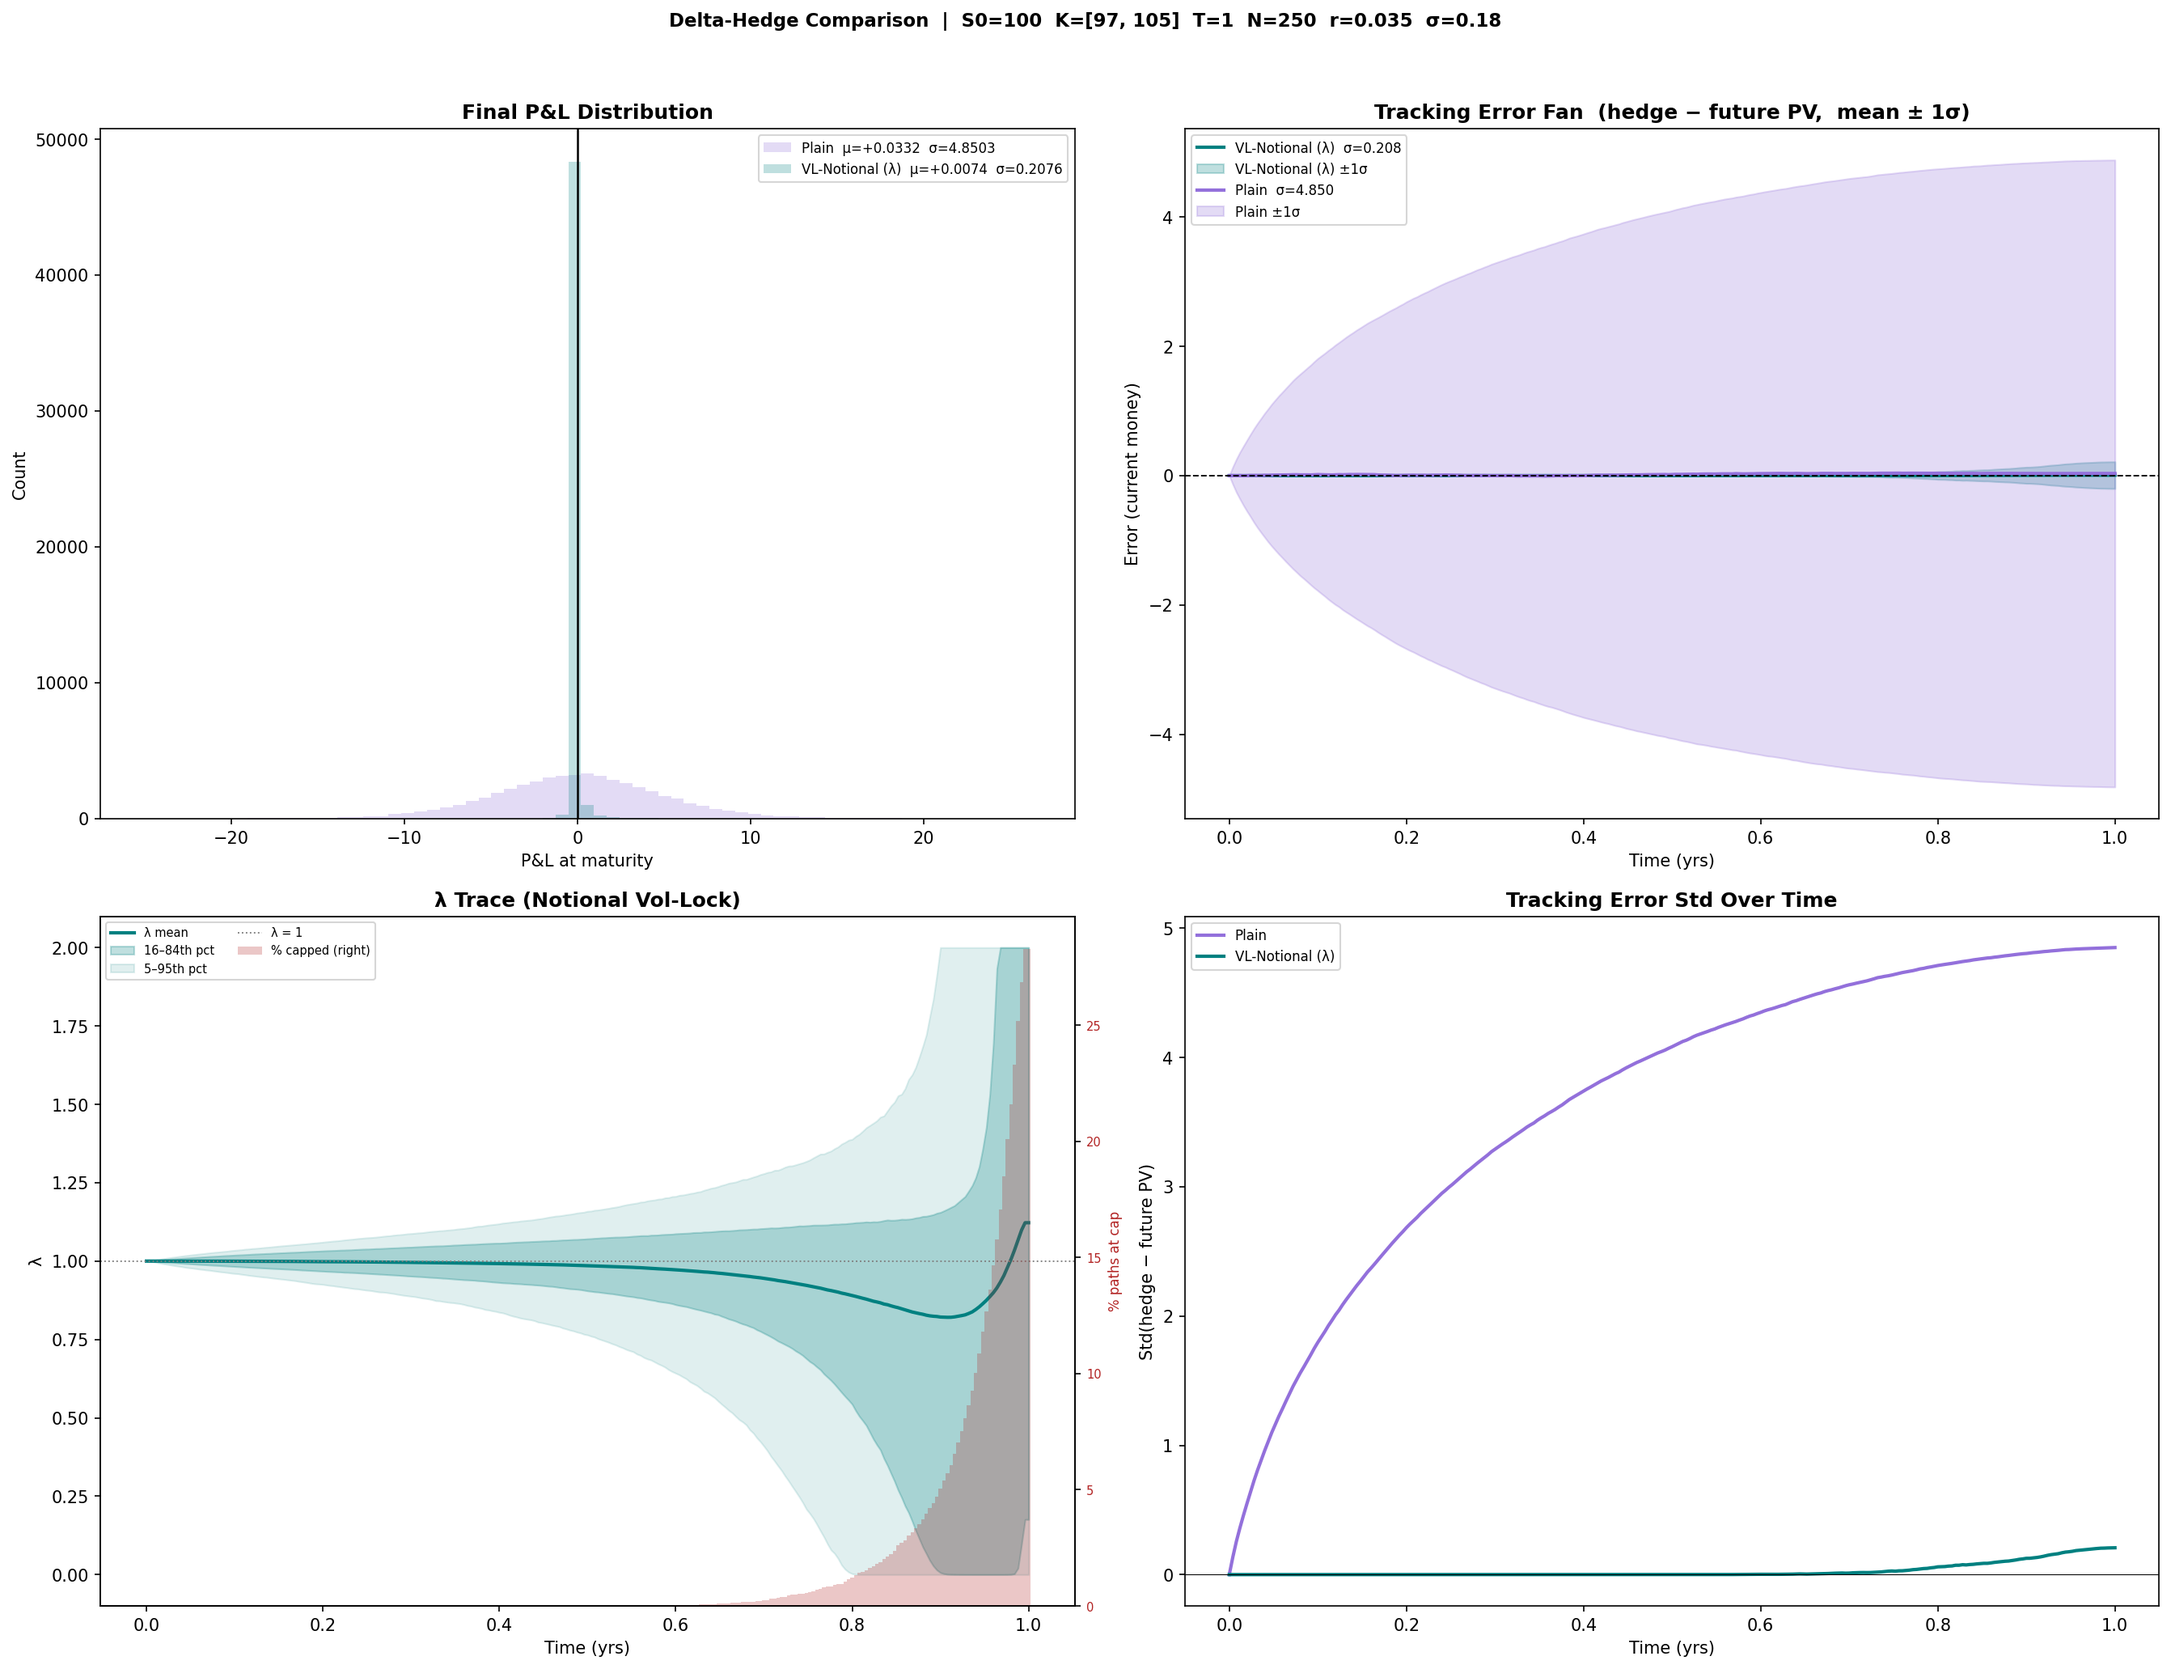
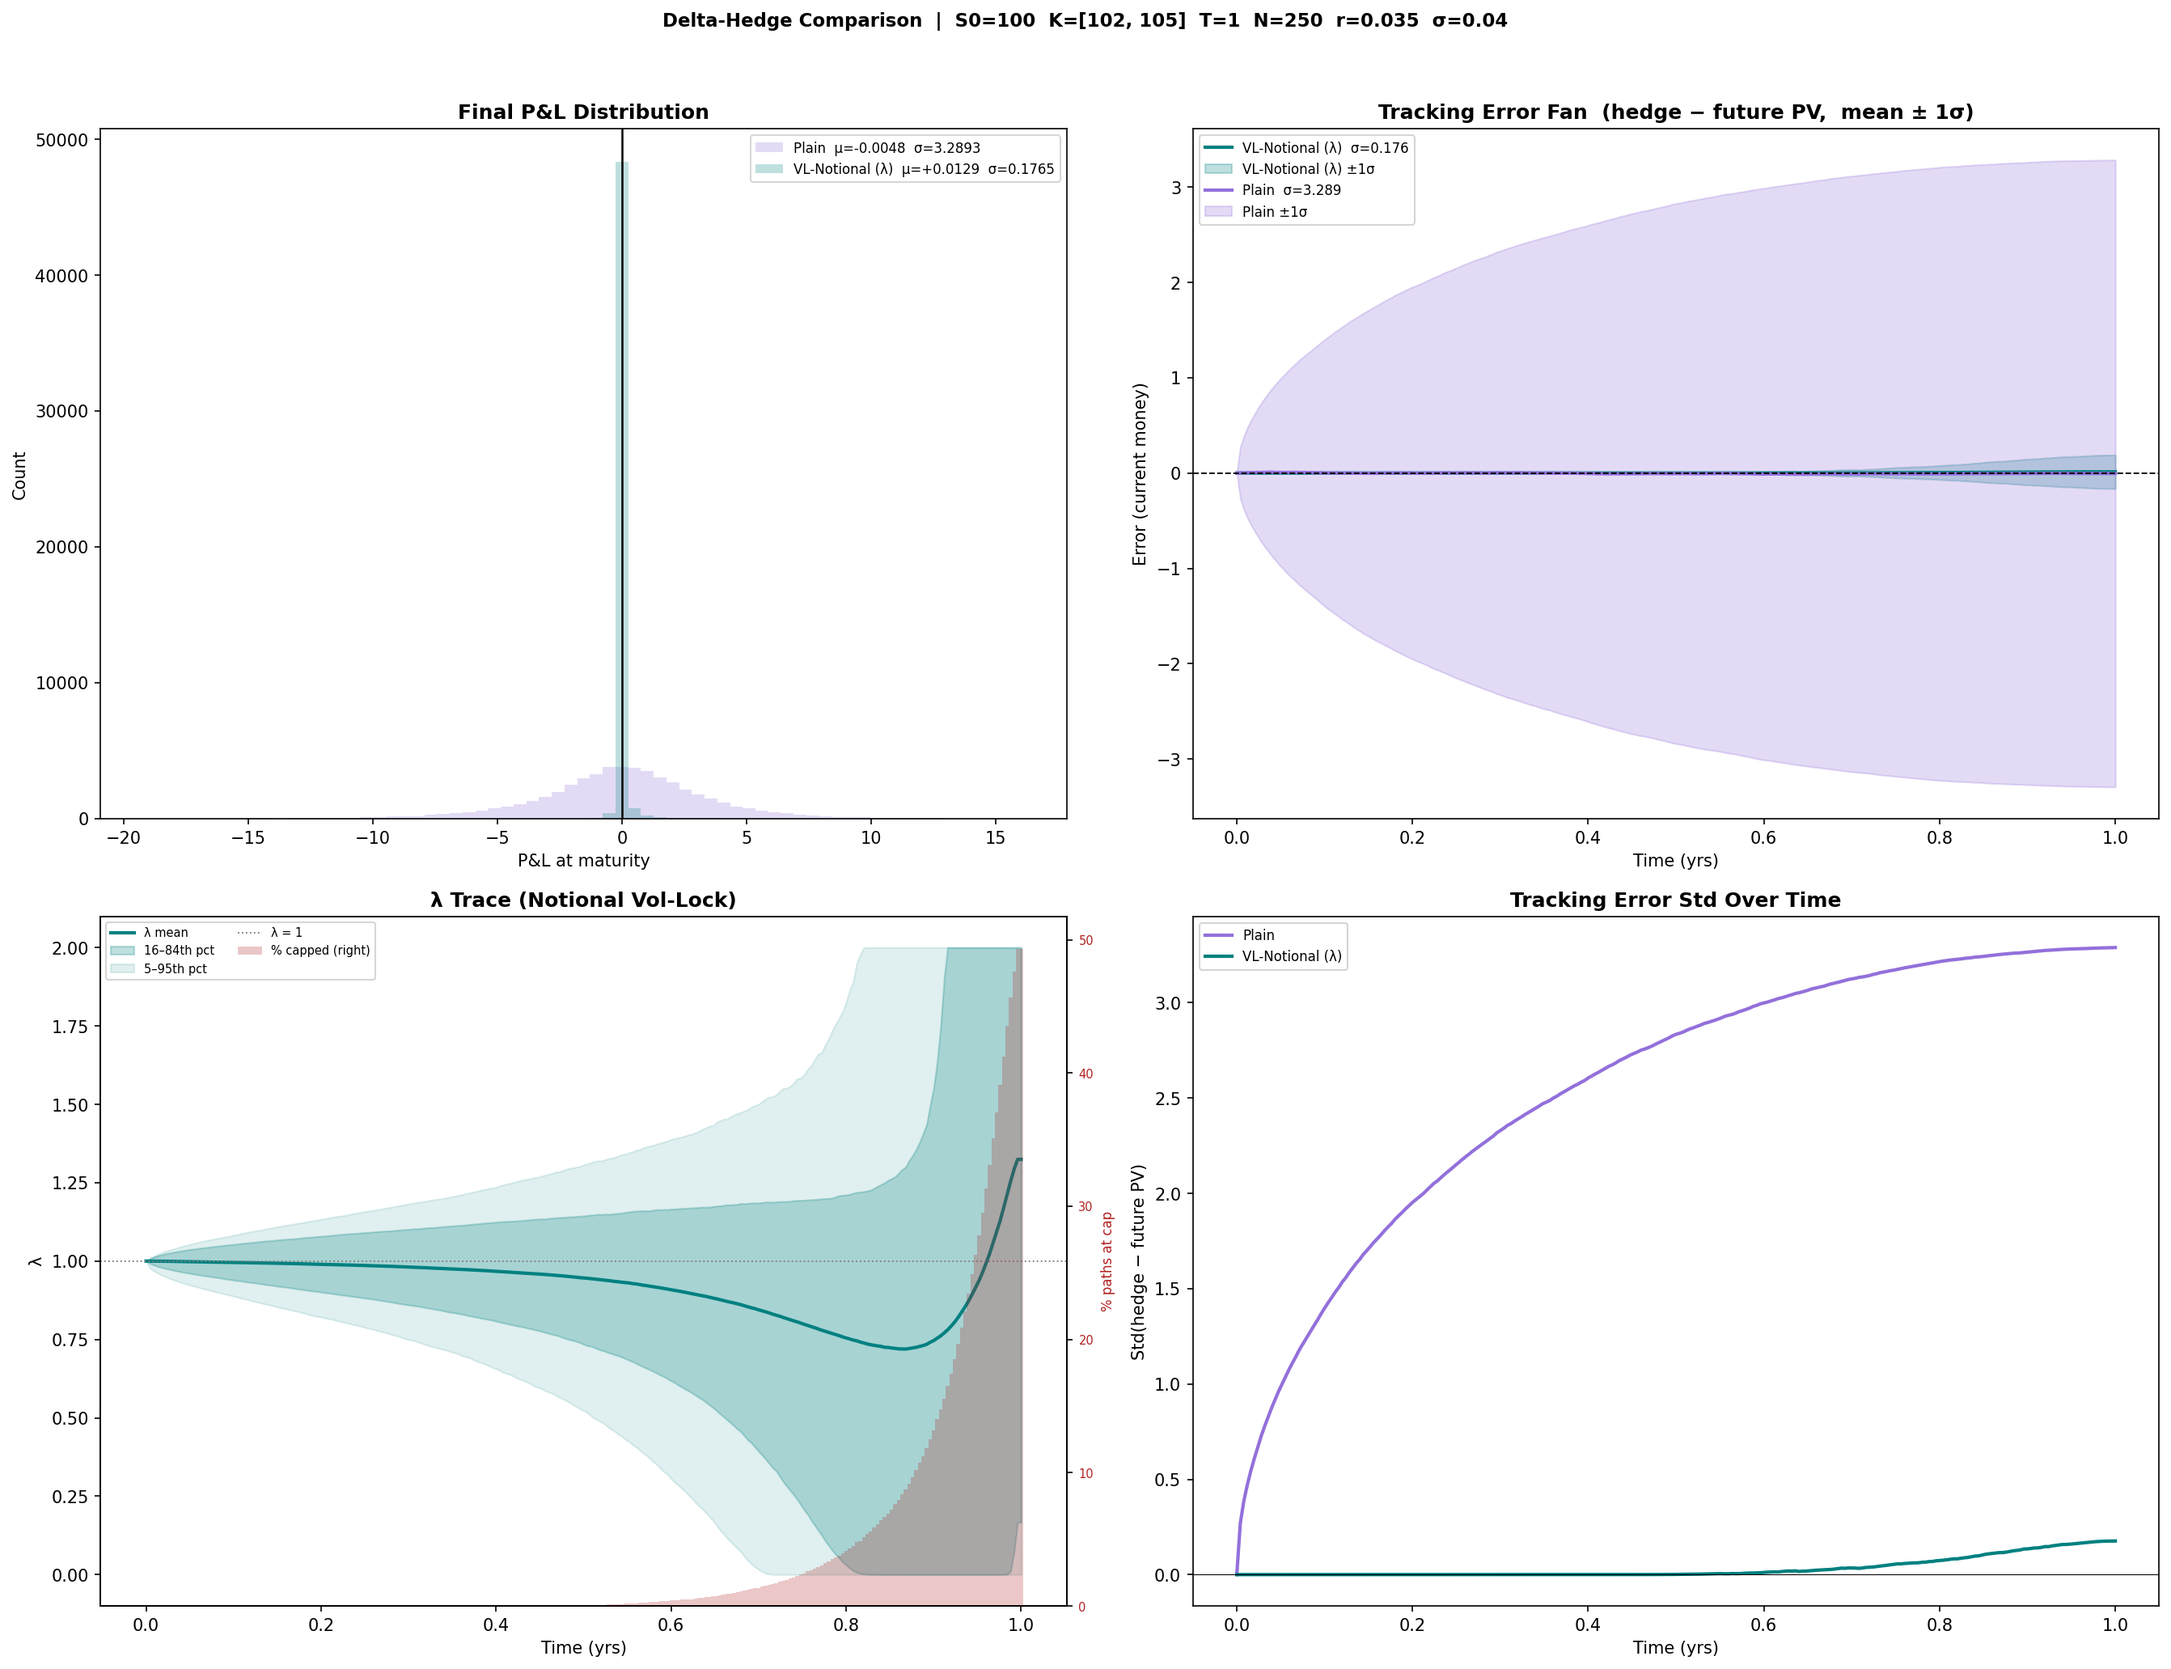
Use sigma=0.04 for simulation plots

diff --git a/_simulation_plots.py b/_simulation_plots.py
@@ -19,13 +19,13 @@ from ramp_hedging import RampStripPayoff, DeltaHedgingSimulation, plot_simulatio
 
 # ── CONFIG ───────────────────────────────────────────────────────────────────
 S0      = 100
-K_LO    = 97
+K_LO    = 102
 K_HI    = 105
 T       = 1
 N       = 250
 R       = 0.035
 Q       = 0.035
-SIGMA   = 0.18
+SIGMA   = 0.04
 CAP     = 2.0
 N_PATHS = 50_000
 SEED    = 421
